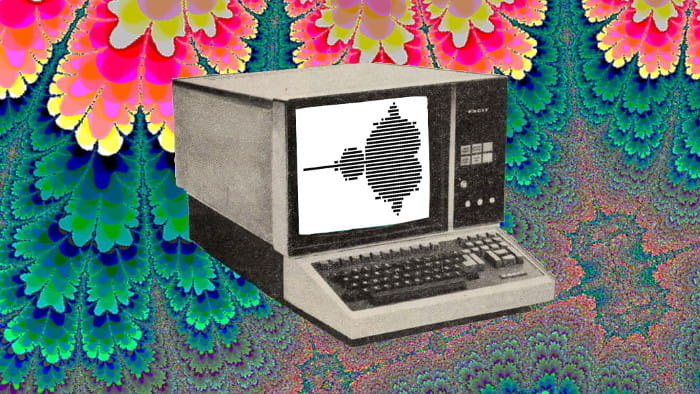
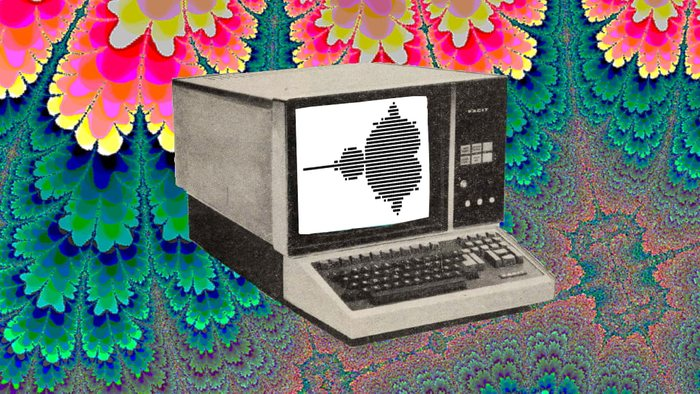
automate illustration regeneration

diff --git a/tasks/illustrations.js b/tasks/illustrations.js
@@ -1,0 +1,43 @@
+const fs = require('fs');
+const sharp = require('sharp');
+
+
+var origin = '../misc/illustrations/';
+var destination = '../images/posts/';
+let maxSize = 700;
+
+
+
+
+let files = fs.readdirSync(origin);
+files.forEach(function(file) {
+    if (fs.statSync(origin + file).isDirectory()) {
+
+        let illustrationName = file + ".jpg";
+        let illustration = origin + file + "/" + illustrationName;
+        if (fs.statSync(illustration).isFile()) {
+            sharp(illustration)
+                .resize(maxSize, maxSize, {
+                    kernel: sharp.kernel.lanczos3,
+                    fastShrinkOnLoad: false
+                })
+                .max()
+                .jpeg({
+                    quality: 84,
+                    progressive: true,
+                    // only with mozjpeg:
+                    trellisQuantisation: true,
+                    overshootDeringing: true,
+                    optimiseScans: true
+                })
+                .toFile(destination + illustrationName)
+                .then(function() {
+                    console.log(illustrationName + ": ok");
+                })
+                .catch(err => function() {
+                    console.log(illustrationName + ": error!");
+                    console.log(err)
+                });
+        }
+    }
+});
